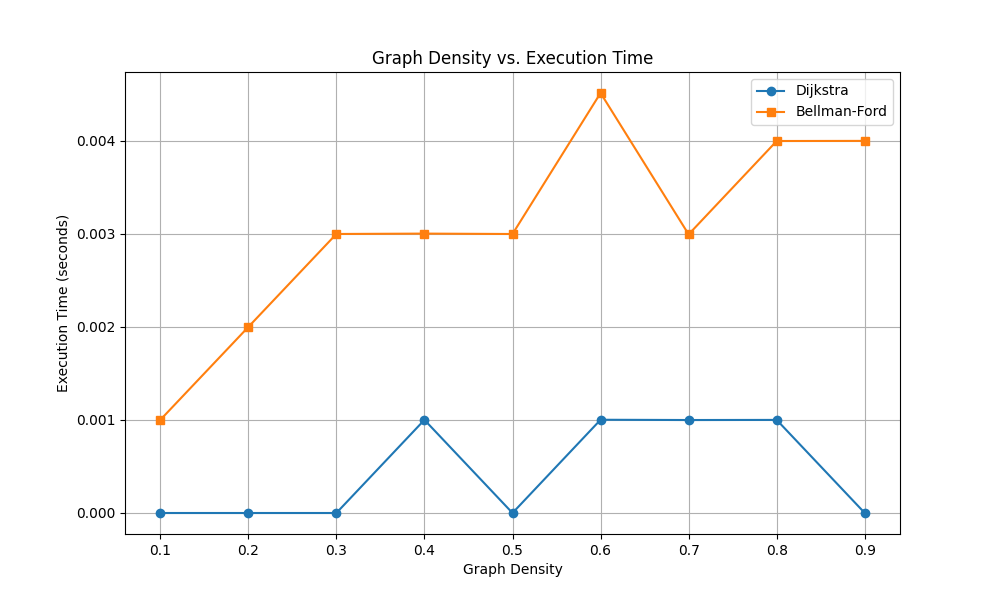
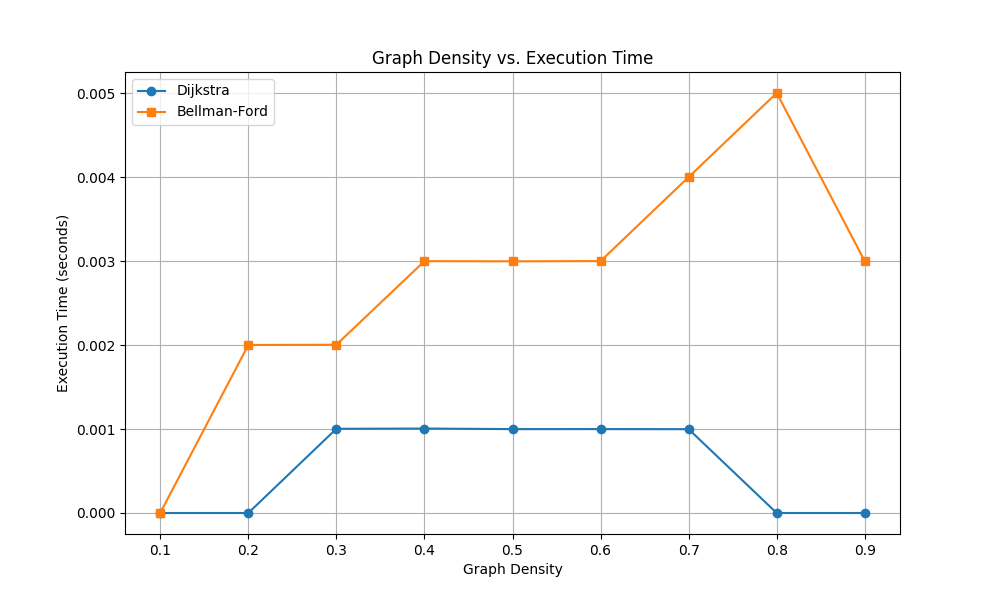
part5 and diagram finished
finish part 5, draw_plot() for part 5, change graph_utilis() into a version that both accept directed graph and undirected graph depends on different scenarios.

diff --git a/test_Astar_Dijkstra_Performance.py b/test_Astar_Dijkstra_Performance.py
@@ -2,6 +2,8 @@ import unittest
 import csv
 import time 
 import random
+import matplotlib.pyplot as plt
+import os
 from graph_utils import Graph
 from math import radians, sin, cos, atan2, sqrt
 from shortest_path_algorithms import dijkstra
@@ -30,13 +32,14 @@ class CompareDijAndA(unittest.TestCase):
             
 
     def setUp(self):
-
+        
+        # read 2 files and transfer relevant string figures into integers
         # nodes
         self.stations = {}                                                           # key is id of stations, values are (latitude, Longitude)       
         with open("london_stations.csv", newline='', encoding="utf-8") as file1:
             reader1 = csv.DictReader(file1)
             for row1 in reader1:
-                station_id = row1["id"]
+                station_id = int(row1["id"])
                 latitude = float(row1["latitude"])
                 longitude = float(row1["longitude"])
 
@@ -48,15 +51,15 @@ class CompareDijAndA(unittest.TestCase):
         with open("london_connections.csv", newline='', encoding="utf-8") as file2:
             reader2 = csv.DictReader(file2)
             for row2 in reader2:
-                source_id = row2["station1"]
-                destination_id = row2["station2"]
+                source_id = int(row2["station1"])
+                destination_id = int(row2["station2"])
 
                 """Since the Earth is a sphere and cannot be represented as a simple 2D grid, 
                 we need to use the Haversine formula to calculate the actual distance between two points on the sphere."""
 
                 # calculate the edge weight from 1 node to another beside
                 weight = self.haversine_distance(self.stations[source_id], self.stations[destination_id])
-                self.graph.add_edge(source_id, destination_id, weight)
+                self.graph.add_edge(source_id, destination_id, weight, undirected=True)
         
         # get all names of stations and store them into a list
         self.station_info_list = list(self.stations.keys())
@@ -64,7 +67,6 @@ class CompareDijAndA(unittest.TestCase):
     def test_performance_compare(self):                                              # whole instance of class CompareDijAndA
         station_pair_num = 10
         generated_random_pairs = []
-        n = len(self.station_info_list)
 
         # generate random (source, destination) pairs for each trial
         # while-loop ensure the number of tuple pairs is equal to number of trials after eliminating duplicate pairs
@@ -74,8 +76,8 @@ class CompareDijAndA(unittest.TestCase):
 
             # avoid duplicate info
             # case 1: picking same nodes
-            while destination == source:                                        # if statement doesn't work if function choose the same node as the another again
-                destination = random.choice(self.station_info_list)             # use a while loop to keep selecting  until destination != source
+            while destination == source:                                            # if statement doesn't work if function choose the same node as the another again
+                destination = random.choice(self.station_info_list)                 # use a while loop to keep selecting  until destination != source
             
             # case 2: picking same tuple pairs
             check_pair = (source, destination)
@@ -87,28 +89,65 @@ class CompareDijAndA(unittest.TestCase):
 
         for (source, destination) in generated_random_pairs:
 
-            # Dijkstra
+            # Dijkstra, dist_dij stores the distance between source node and all reachable nodes 
             start_1 = time.perf_counter()
-            dist_dij, path_dij = dijkstra(self.graph, source, destination)
+            dist_dij, shortest_path_dij = dijkstra(self.graph, source, (self.graph.get_num_nodes() - 2))
             end_1 = time.perf_counter()
             dijkstra_times.append(end_1 - start_1)
 
             # A*
             start_2 = time.perf_counter()
-            dist_A, path_A = A_star(self.graph, source, destination, lambda u, v: self.heuristic(u, v, self.stations))
+            came_from, shortest_path_A = A_star(self.graph, source, destination, lambda u, v: self.heuristic(u, v, self.stations))
             end_2 = time.perf_counter()
             A_star_times.append(end_2 - start_2)
 
 
-            # compare whether 2 paths generated by 2 algorithms are similarly same
-            # if these 2 algrithms use the same graph in each trial, the solution path is supposed to be similarly same
-            self.assertAlmostEqual(dist_dij, dist_A, places=5, msg=f"Paths differ for {source} -> {destination}")
+            # compare whether shortest path generated by 2 algorithms is the same
 
+            # case 1: destination node is not reachable from source node in Dijkstra
+            if destination not in dist_dij:
+                self.fail(f"Dijkstra cannot reach {destination} (source = {source})")
+            # case 2: A* algorithm cannot find any path from source node to destination node
+            if not shortest_path_A:
+                self.fail(f"A* cannot reach {destination} (source = {source})")
+
+            # compute A* distance from source to destination: sum haversine_distance(stations[u], stations[v]) for each edge in path_A
+            dist_A = 0.0
+            for i in range(len(shortest_path_A) - 1):                               # iterate to len(LIST) - 1 since we need to access the last element of the list by [i + 1] 
+                u = shortest_path_A[i]                                              # current node u, coord(a, b)
+                v = shortest_path_A[i + 1]                                          # next node v, coord(b, c)
+                dist_A += self.haversine_distance(self.stations[u], self.stations[v])
+
+
+            # check whether same shortest path
+            self.assertAlmostEqual(dist_dij[destination], dist_A, places=5, msg=f"Paths differ for {source} -> {destination}")
+
+            #
             avg_dijkstra_time = sum(dijkstra_times) / len(dijkstra_times)
             avg_A_star_time = sum(A_star_times) / len(A_star_times)
             print(f"\nDijkstra average time over {station_pair_num} runs: {avg_dijkstra_time:.6f} s")
             print(f"A*       average time over {station_pair_num} runs: {avg_A_star_time:.6f} s")
-        
+
+        draw_plot(dijkstra_times, A_star_times, station_pair_num)
+
+
+# plot drawing and saving function
+def draw_plot(dijkstra_times, a_star_times, station_pair_num):
+    results_dir = "experiment_results"
+    os.makedirs(results_dir, exist_ok=True)
+
+    x_values = range(1, station_pair_num + 1)
+    plt.figure()
+    plt.plot(x_values, dijkstra_times, label="Dijkstra")
+    plt.plot(x_values, a_star_times, label="A*")
+    plt.legend()
+    plt.xlabel("Trial Index")
+    plt.ylabel("Time (seconds)")
+    plt.title("A_star_vs_Dijkstra")
+    plt.savefig(f"{results_dir}/A_star_vs_Dijkstra.png")
+    print(f"Plot saved to {results_dir}/A_star_vs_Dijkstra.png")
+    plt.close()
+
 
 if __name__ == "__main__":
     unittest.main()

diff --git a/A_star_algorithm.py b/A_star_algorithm.py
@@ -30,6 +30,7 @@ def A_star(graph, source, destination, heuristic):
                 came_from[neighbors] = current_node
             
     shortest_path = reconstruct_path(source, destination, came_from)
+    # the return element of A* is restricted to 
     return came_from, shortest_path
 
 
@@ -50,6 +51,7 @@ def reconstruct_path(source, destination, came_from):
 
 #  A start algorithm correctness test
 # test case that use unittest  实例
+
 class TestAStar(unittest.TestCase):
     def setUp(self):
         self.graph = Graph()
@@ -65,7 +67,7 @@ class TestAStar(unittest.TestCase):
         self.graph.add_edge((2, 0), (2, 1), 1)
         self.graph.add_edge((1, 2), (2, 2), 1)
         self.graph.add_edge((2, 1), (2, 2), 1)
-
+       
         # initialize attributes of instance TestAStar for source and destination nodes
         self.source = (0, 0)
         self.destination = (2, 2)

diff --git a/graph_utils.py b/graph_utils.py
@@ -6,7 +6,7 @@ class Graph:
         if node not in self.graph:
             self.graph[node] = []
 
-    def add_edge(self, source, destination, weight):
+    def add_edge(self, source, destination, weight, undirected=False):      # default as directed graph
         # add nodes if they do not exist
         self.add_node(source)
         self.add_node(destination)
@@ -14,6 +14,10 @@ class Graph:
         # add the edge
         self.graph[source].append((destination, weight))
 
+        # ensure covering double direction graph - London subway
+        if undirected == True:
+            self.graph[destination].append((source, weight))
+        
     def get_neighbors(self, node):
         if node in self.graph:
             return self.graph[node]
